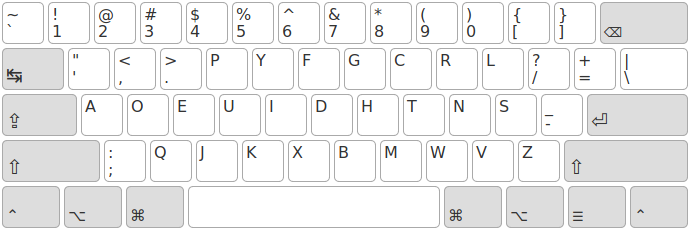
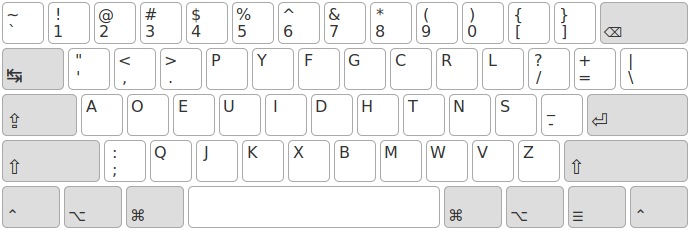
key label centering

diff --git a/x-keyboard.js b/x-keyboard.js
@@ -53,6 +53,9 @@ const css = `
   }
   key em,
   key strong {
+    display: block;
+    min-width: 0.8em;
+    text-align: center;
     font-weight: inherit;
     font-style: inherit;
     color: #333;
@@ -70,7 +73,7 @@ const css = `
   key .dk,
   key .altgr {
     left: auto;
-    right: 5px;
+    right: 3px;
     color: blue;
     opacity: 0.5;
   }
